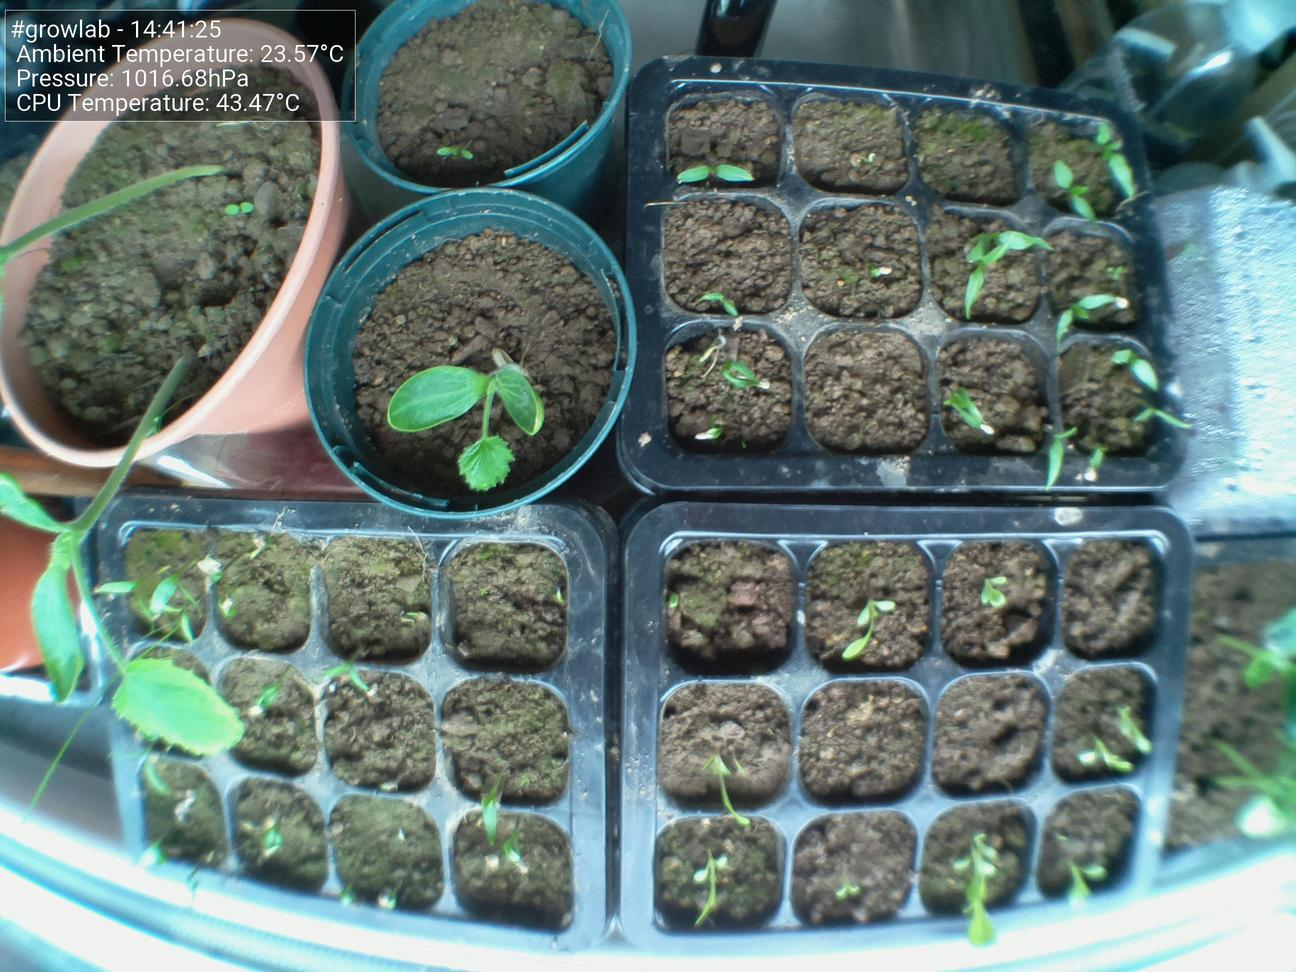
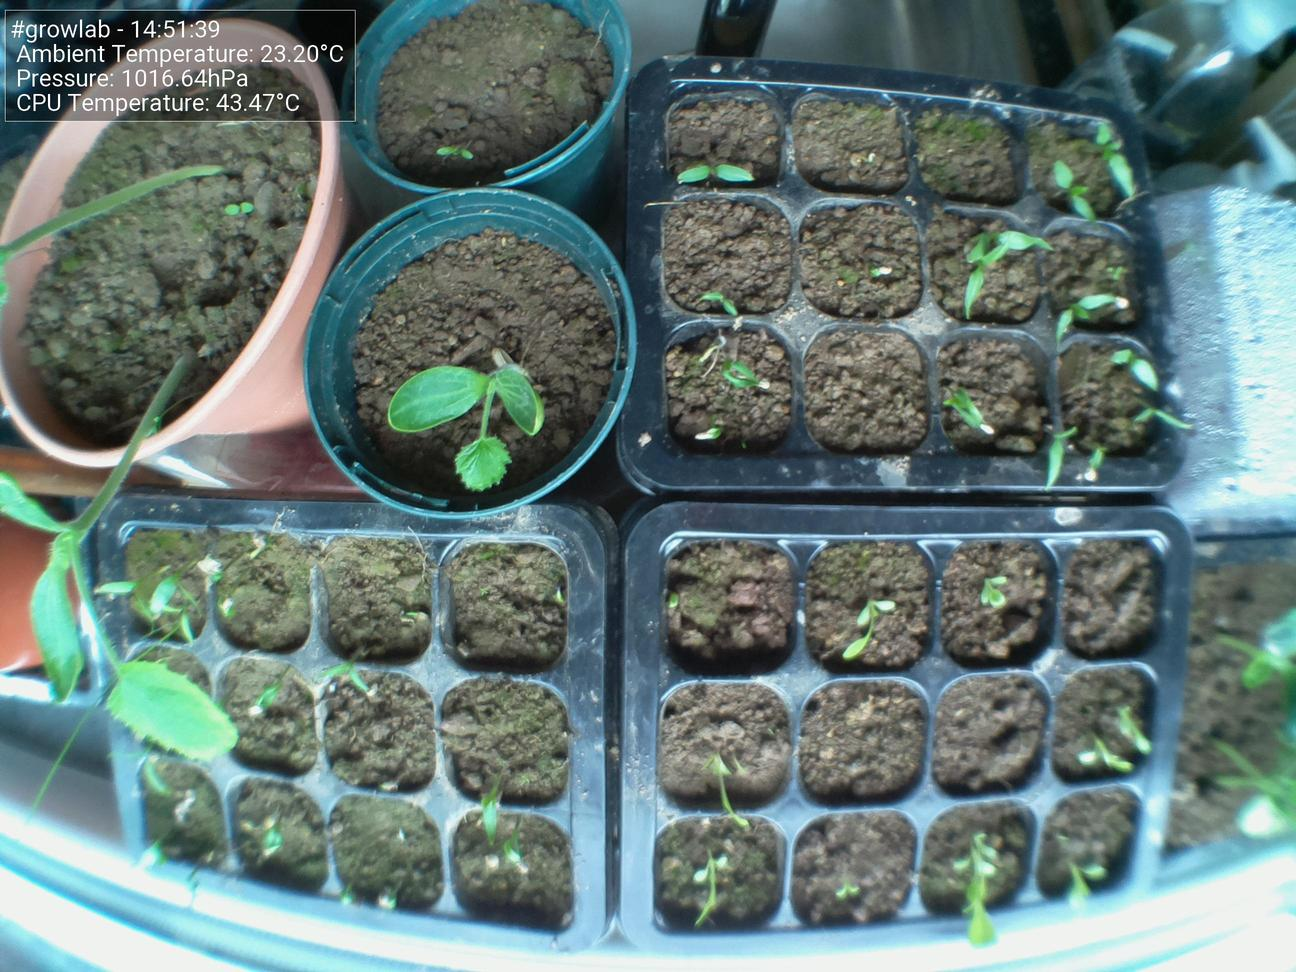
Update images at Fri  6 May 14:51:44 BST 2022

diff --git a/docs/index.html b/docs/index.html
@@ -44,7 +44,7 @@
                         <tbody>
                             <tr>
                                 <td>Time</td>
-                                <td>14:41:25</td>
+                                <td>14:51:39</td>
                             </tr>
                             <tr>
                                 <td>CPU Temp</td>
@@ -52,7 +52,7 @@
                             </tr>
                             <tr>
                                 <td>Ambient Temperature</td>
-                                <td>23.57°C</td>
+                                <td>23.20°C</td>
                             </tr>
                             <tr>
                                 <td>Humidity</td>
@@ -60,7 +60,7 @@
                             </tr>
                             <tr>
                                 <td>Pressure</td>
-                                <td>1016.68hPa</td>
+                                <td>1016.64hPa</td>
                             </tr>
                         </tbody>
                     </table>
@@ -68,7 +68,7 @@
 
                 <h5>Latest image</h5>
                 <div style="width: 85%;">
-                            <img class="figure-img img-fluid rounded" src="./preview.jpg?uid=1651844489.4698944">
+                            <img class="figure-img img-fluid rounded" src="./preview.jpg?uid=1651845103.8087733">
                 </div>
             </div>
         </div>
